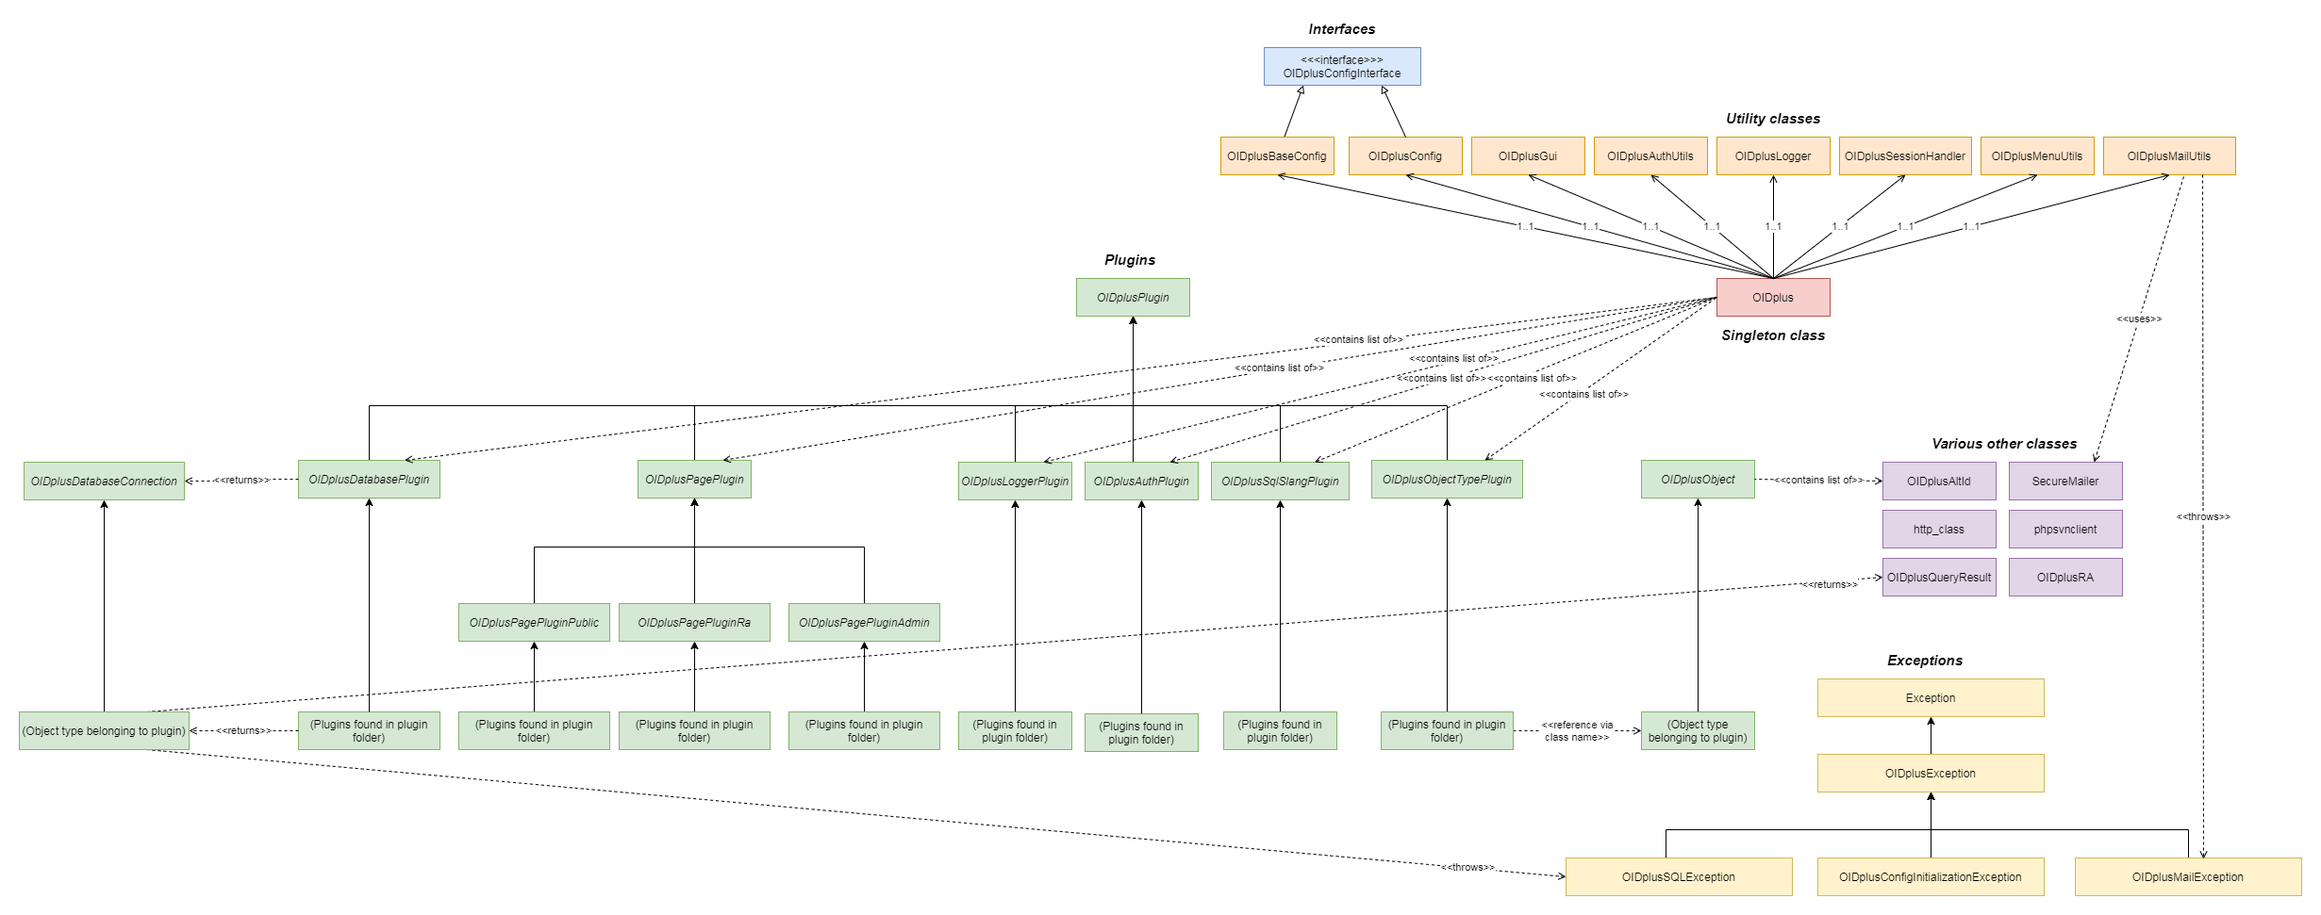
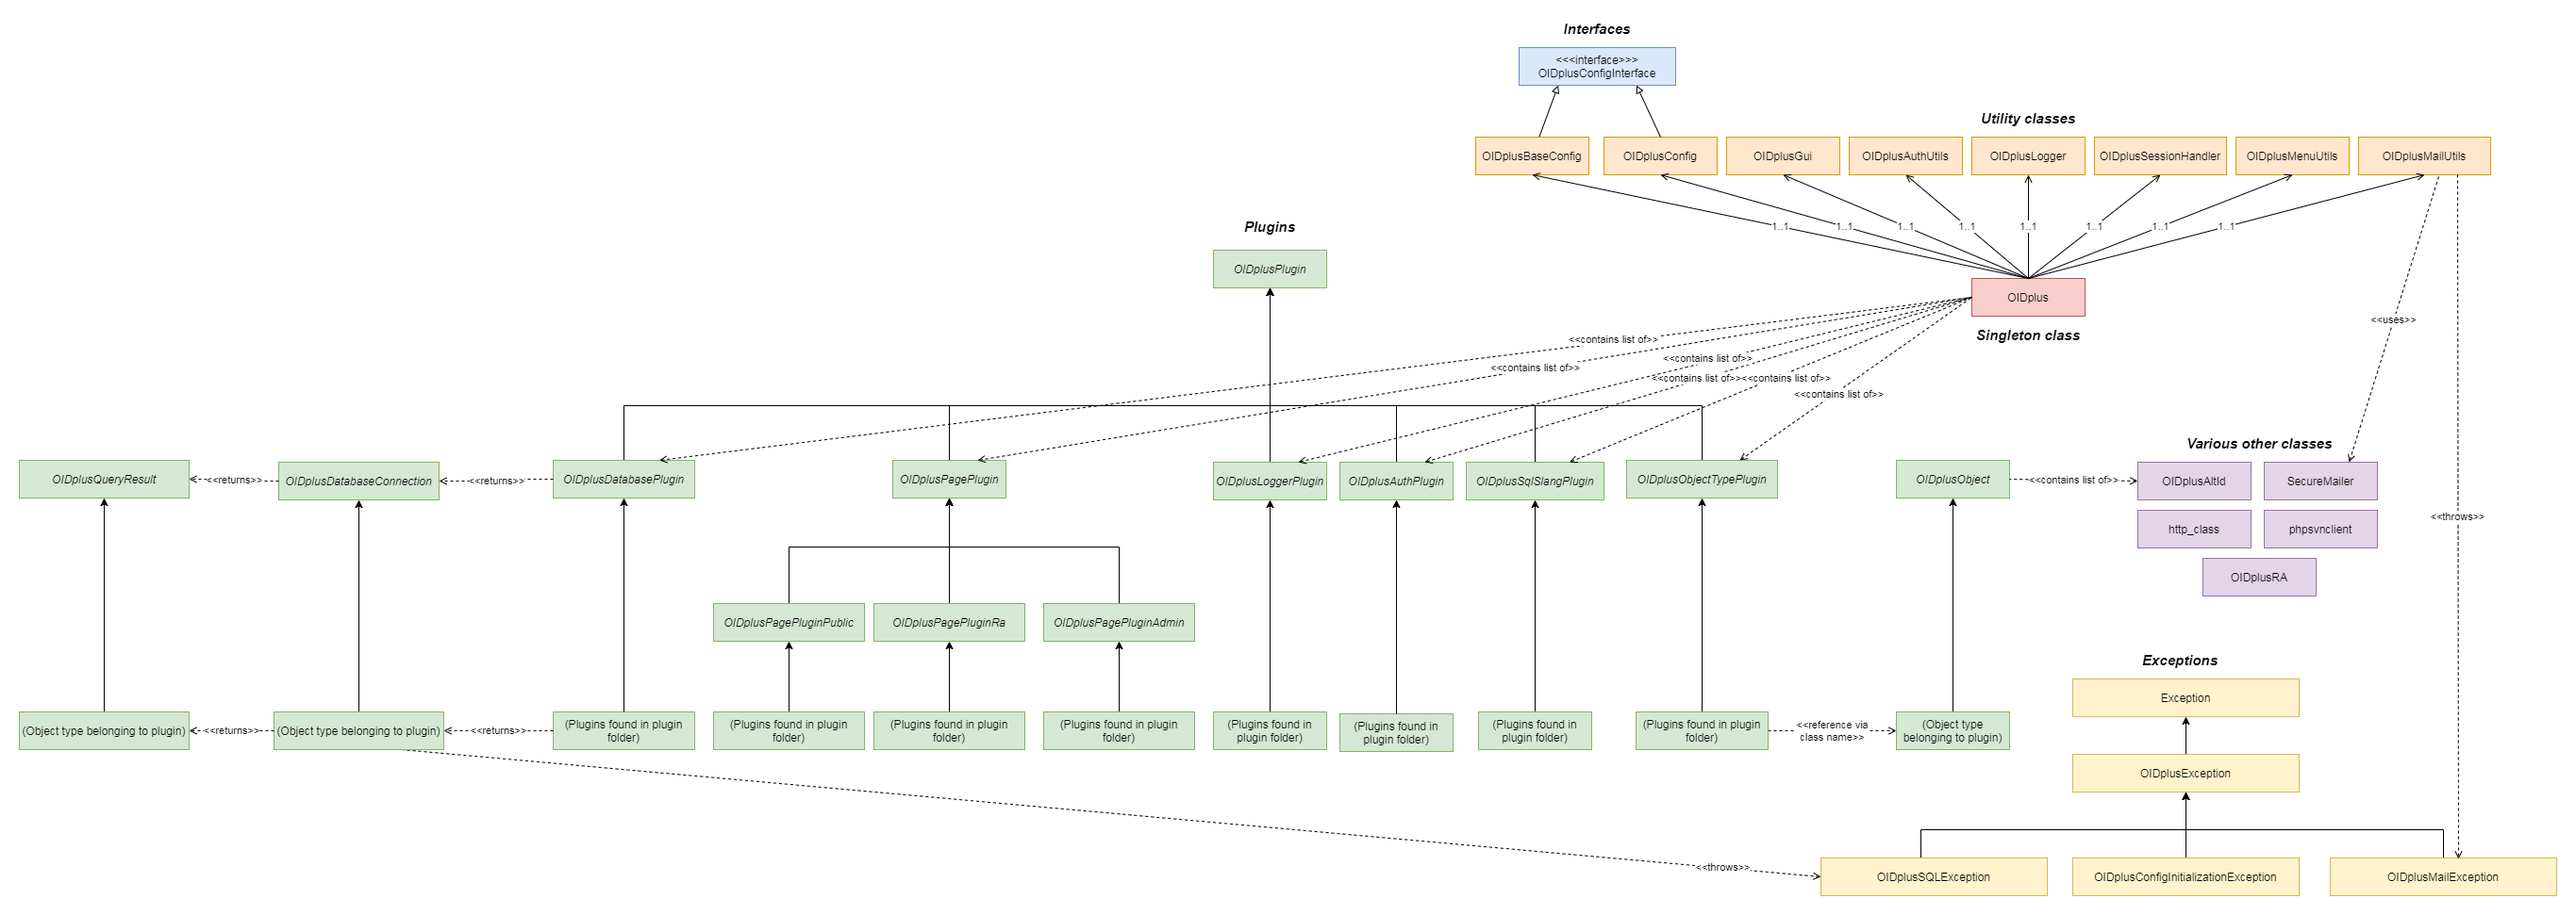
git-svn-id: https://svn.viathinksoft.com/svn/oidplus/trunk@296 02e4d621-2042-4998-a0bc-9ccd24201011

diff --git a/plugins/publicPages/090_login/OIDplusPagePublicLogin.class.php b/plugins/publicPages/090_login/OIDplusPagePublicLogin.class.php
@@ -182,8 +182,8 @@ class OIDplusPagePublicLogin extends OIDplusPagePluginPublic {
 			$out['text'] .= '<p><font size="-1"><i>Privacy information</i>: By using the login functionality, you are accepting that a "session cookie" is temporarily stored in your browser. '.
 			                'The session cookie is a small text file that is sent to this website every time you visit it, to identify you as an already logged in user. '.
 			                'It does not track any of your online activities outside OIDplus. The cookie will be destroyed when you log out or after an inactivity of '.ceil(OIDplus::baseConfig()->getValue('SESSION_LIFETIME', 30*60)/60).' minutes.';
-			$privacy_document_file = 'res/OIDplus/privacy_documentation.html';
-			if (class_exists('OIDplusPagePublicResources') && file_exists($privacy_document_file)) {
+			$privacy_document_file = 'OIDplus/privacy_documentation.html';
+			if (class_exists('OIDplusPagePublicResources') && file_exists(OIDplus::basePath().'/res/'.$privacy_document_file)) {
 				$out['text'] .= ' <a '.OIDplus::gui()->link('oidplus:resources$'.$privacy_document_file.'$'.OIDplus::authUtils()::makeAuthKey("resources;".$privacy_document_file).'#cookies').'>More information about the cookies used</a>';
 			}
 			$out['text'] .= '</font></p></div>';

diff --git a/includes/db_updates/update202.inc.php b/includes/db_updates/update202.inc.php
@@ -18,14 +18,14 @@
  */
 
 // DATABASE UPDATE 202 -> 203
-// This script will be included by OIDplusDatabasePlugin.class.php inside function afterConnect().
-// Parameters: $this is the OIDplusDatabasePlugin class
+// This script will be included by OIDplusDatabaseConnection.class.php inside function afterConnect().
+// Parameters: $this is the OIDplusDatabaseConnection class
 //             $version is the current version (this script MUST increase the number by 1 when it is done)
 
 if (!isset($version)) throw new OIDplusException("Argument 'version' is missing; was the file included in a wrong way?");
 if (!isset($this))    throw new OIDplusException("Argument 'this' is missing; was the file included in a wrong way?");
 
-$this->transaction_begin();
+if ($this->transaction_supported()) $this->transaction_begin();
 
 if ($this->getSlang()::id() == 'mssql') {
 	$sql = "CREATE FUNCTION [dbo].[getOidArc] (@strList varchar(512), @maxArcLen int, @occurence int)
@@ -71,4 +71,4 @@ if ($this->getSlang()::id() == 'mssql') {
 $version = 203;
 $this->query("UPDATE ###config SET value = ? WHERE name = 'database_version'", array($version));
 
-$this->transaction_commit();
+if ($this->transaction_supported()) $this->transaction_commit();

diff --git a/includes/db_updates/update203.inc.php b/includes/db_updates/update203.inc.php
@@ -18,14 +18,14 @@
  */
 
 // DATABASE UPDATE 203 -> 204
-// This script will be included by OIDplusDatabasePlugin.class.php inside function afterConnect().
-// Parameters: $this is the OIDplusDatabasePlugin class
+// This script will be included by OIDplusDatabaseConnection.class.php inside function afterConnect().
+// Parameters: $this is the OIDplusDatabaseConnection class
 //             $version is the current version (this script MUST increase the number by 1 when it is done)
 
 if (!isset($version)) throw new OIDplusException("Argument 'version' is missing; was the file included in a wrong way?");
 if (!isset($this))    throw new OIDplusException("Argument 'this' is missing; was the file included in a wrong way?");
 
-$this->transaction_begin();
+if ($this->transaction_supported()) $this->transaction_begin();
 
 if ($this->getSlang()::id() == 'mssql') {
 	$this->query("ALTER TABLE ###log_object ADD severity [int]");
@@ -47,4 +47,4 @@ else if ($this->getSlang()::id() == 'sqlite') {
 $version = 204;
 $this->query("UPDATE ###config SET value = ? WHERE name = 'database_version'", array($version));
 
-$this->transaction_commit();
+if ($this->transaction_supported()) $this->transaction_commit();

diff --git a/includes/db_updates/update200.inc.php b/includes/db_updates/update200.inc.php
@@ -18,18 +18,18 @@
  */
 
 // DATABASE UPDATE 200 -> 201
-// This script will be included by OIDplusDatabasePlugin.class.php inside function afterConnect().
-// Parameters: $this is the OIDplusDatabasePlugin class
+// This script will be included by OIDplusDatabaseConnection.class.php inside function afterConnect().
+// Parameters: $this is the OIDplusDatabaseConnection class
 //             $version is the current version (this script MUST increase the number by 1 when it is done)
 
 if (!isset($version)) throw new OIDplusException("Argument 'version' is missing; was the file included in a wrong way?");
 if (!isset($this))    throw new OIDplusException("Argument 'this' is missing; was the file included in a wrong way?");
 
-$this->transaction_begin();
+if ($this->transaction_supported()) $this->transaction_begin();
 
 $this->query("ALTER TABLE ###objects ADD comment varchar(255) NULL");
 
 $version = 201;
 $this->query("UPDATE ###config SET value = ? WHERE name = 'database_version'", array($version));
 
-$this->transaction_commit();
+if ($this->transaction_supported()) $this->transaction_commit();

diff --git a/includes/db_updates/update201.inc.php b/includes/db_updates/update201.inc.php
@@ -18,11 +18,11 @@
  */
 
 // DATABASE UPDATE 201 -> 202
-// This script will be included by OIDplusDatabasePlugin.class.php inside function afterConnect().
-// Parameters: $this is the OIDplusDatabasePlugin class
+// This script will be included by OIDplusDatabaseConnection.class.php inside function afterConnect().
+// Parameters: $this is the OIDplusDatabaseConnection class
 //             $version is the current version (this script MUST increase the number by 1 when it is done)
 
-$this->transaction_begin();
+if ($this->transaction_supported()) $this->transaction_begin();
 
 if (!isset($version)) throw new OIDplusException("Argument 'version' is missing; was the file included in a wrong way?");
 if (!isset($this))    throw new OIDplusException("Argument 'this' is missing; was the file included in a wrong way?");
@@ -79,4 +79,4 @@ if ($this->getSlang()::id() == 'pgsql') {
 $version = 202;
 $this->query("UPDATE ###config SET value = ? WHERE name = 'database_version'", array($version));
 
-$this->transaction_commit();
+if ($this->transaction_supported()) $this->transaction_commit();

diff --git a/ajax.php b/ajax.php
@@ -24,7 +24,9 @@ OIDplus::init(false);
 header('Content-Type:application/json; charset=utf-8');
 
 try {
-	OIDplus::db()->transaction_begin();
+	if (OIDplus::db()->transaction_supported()) {
+		OIDplus::db()->transaction_begin();
+	}
 	$handled = false;
 
 	// Action:     (actions defined by plugins)
@@ -97,10 +99,14 @@ try {
 		throw new OIDplusException('Invalid action ID');
 	}
 
-	OIDplus::db()->transaction_commit();
+	if (OIDplus::db()->transaction_supported()) {
+		OIDplus::db()->transaction_commit();
+	}
 } catch (Exception $e) {
 	try {
-		OIDplus::db()->transaction_rollback();
+		if (OIDplus::db()->transaction_supported()) {
+			OIDplus::db()->transaction_rollback();
+		}
 	} catch (Exception $e1) {
 	}
 
